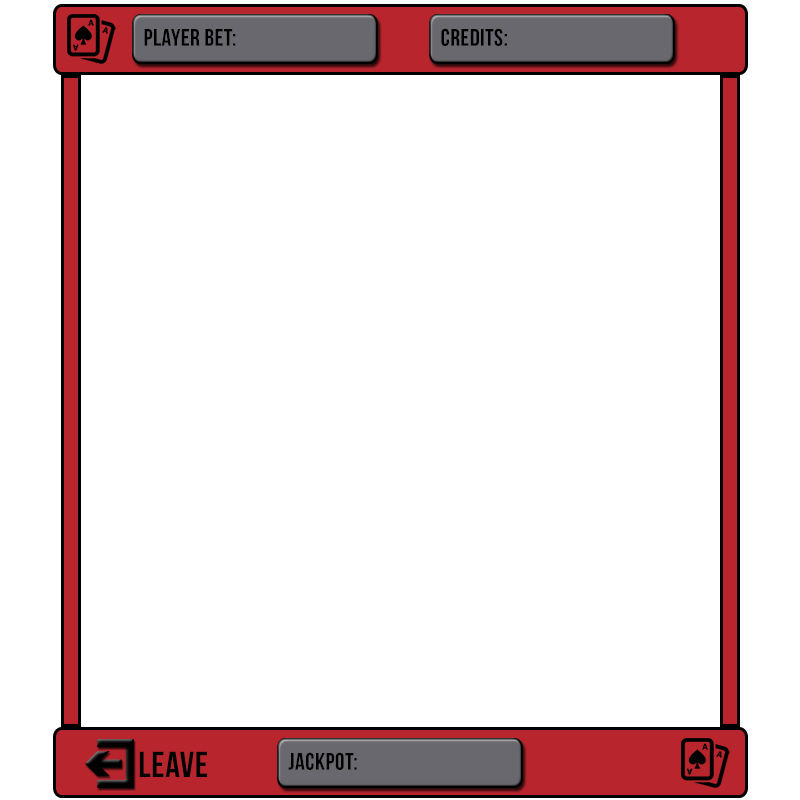
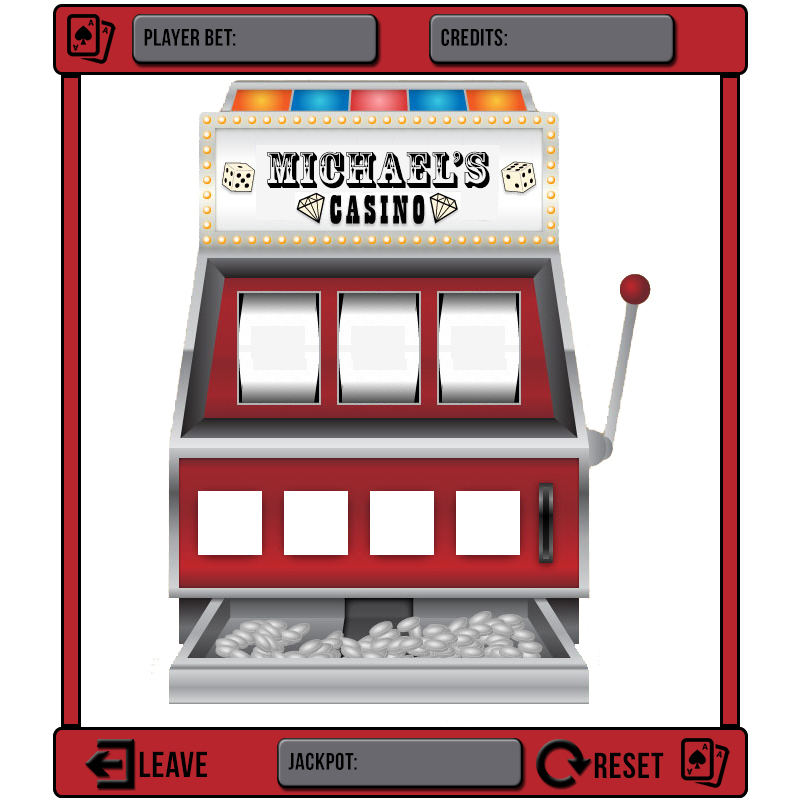
Added game reset button. Implemented it in code.

diff --git a/SlotMachine/scripts/app.js b/SlotMachine/scripts/app.js
@@ -8,7 +8,7 @@ var spinResult;
 
 var MAX_BET = 25;
 
-var canvasBackgroundImage = new createjs.Bitmap("./images/canvas_background.jpg"), slotMachineImage = new createjs.Bitmap("./images/slot_machine_template.jpg"), resetImage = new createjs.Bitmap("./images/button_reset.jpg"), resetHoverImage = new createjs.Bitmap("./images/button_reset_hover.jpg"), betOneImage = new createjs.Bitmap("./images/button_bet_one.jpg"), betOneHoverImage = new createjs.Bitmap("./images/button_bet_one_hover.jpg"), betMaxImage = new createjs.Bitmap("./images/button_bet_max.jpg"), betMaxHoverImage = new createjs.Bitmap("./images/button_bet_max_hover.jpg"), spinImage = new createjs.Bitmap("./images/button_spin.jpg"), spinHoverImage = new createjs.Bitmap("./images/button_spin_hover.jpg"), logoutHoverImage = new createjs.Bitmap("./images/logout_hover.jpg"), logoutAreaImage = new createjs.Bitmap("./images/logout_area.png");
+var canvasBackgroundImage = new createjs.Bitmap("./images/canvas_background.jpg"), slotMachineImage = new createjs.Bitmap("./images/slot_machine_template.jpg"), resetImage = new createjs.Bitmap("./images/button_reset.jpg"), resetHoverImage = new createjs.Bitmap("./images/button_reset_hover.jpg"), betOneImage = new createjs.Bitmap("./images/button_bet_one.jpg"), betOneHoverImage = new createjs.Bitmap("./images/button_bet_one_hover.jpg"), betMaxImage = new createjs.Bitmap("./images/button_bet_max.jpg"), betMaxHoverImage = new createjs.Bitmap("./images/button_bet_max_hover.jpg"), spinImage = new createjs.Bitmap("./images/button_spin.jpg"), spinHoverImage = new createjs.Bitmap("./images/button_spin_hover.jpg"), logoutHoverImage = new createjs.Bitmap("./images/logout_hover.jpg"), logoutAreaImage = new createjs.Bitmap("./images/logout_area.png"), fullResetHoverImage = new createjs.Bitmap("./images/reset_hover.jpg"), fullResetAreaImage = new createjs.Bitmap("./images/reset_area.png");
 
 var blank = 0;
 var blankImage = new Image();
@@ -61,6 +61,10 @@ function init() {
     logoutAreaImage.x = 83;
     logoutAreaImage.y = 736;
     stage.addChild(logoutAreaImage);
+
+    fullResetAreaImage.x = 535;
+    fullResetAreaImage.y = 738;
+    stage.addChild(fullResetAreaImage);
 
     slotMachineImage.x = canvasBackgroundImage.x + 150;
     slotMachineImage.y = canvasBackgroundImage.y + 80;
@@ -209,6 +213,26 @@ function init() {
 
         if (confirm("Progress will be lost, continue?"))
             window.close();
+    });
+
+    fullResetAreaImage.addEventListener("mouseover", function () {
+        stage.addChild(fullResetHoverImage);
+        fullResetHoverImage.x = fullResetAreaImage.x;
+        fullResetHoverImage.y = fullResetAreaImage.y;
+        stage.update();
+    });
+
+    fullResetAreaImage.addEventListener("rollout", function () {
+        stage.removeChild(fullResetHoverImage);
+        stage.update();
+    });
+
+    fullResetAreaImage.addEventListener("click", function () {
+        selectSound.play();
+
+        reset();
+
+        stage.update();
     });
 
     spinImage.addEventListener("mouseover", function () {
@@ -399,7 +423,7 @@ function resetFruitCount() {
 function reset() {
     playerBet = 0;
     playerCash = 50;
-    jackpot = 5000;
+    jackpot = 100;
 
     winNumber = 0;
     lossNumber = 0;

diff --git a/SlotMachine/scripts/app.ts b/SlotMachine/scripts/app.ts
@@ -19,7 +19,9 @@ var canvasBackgroundImage = new createjs.Bitmap("./images/canvas_background.jpg"
     spinImage = new createjs.Bitmap("./images/button_spin.jpg"),
     spinHoverImage = new createjs.Bitmap("./images/button_spin_hover.jpg"),
     logoutHoverImage = new createjs.Bitmap("./images/logout_hover.jpg"),
-    logoutAreaImage = new createjs.Bitmap("./images/logout_area.png");
+    logoutAreaImage = new createjs.Bitmap("./images/logout_area.png"),
+    fullResetHoverImage = new createjs.Bitmap("./images/reset_hover.jpg"),
+    fullResetAreaImage = new createjs.Bitmap("./images/reset_area.png");
 
 
 var blank = 0;
@@ -78,6 +80,10 @@ function init() {
     logoutAreaImage.x = 83;
     logoutAreaImage.y = 736;
     stage.addChild(logoutAreaImage);
+
+    fullResetAreaImage.x = 535;
+    fullResetAreaImage.y = 738;
+    stage.addChild(fullResetAreaImage);
 
     slotMachineImage.x = canvasBackgroundImage.x + 150;
     slotMachineImage.y = canvasBackgroundImage.y + 80;
@@ -145,7 +151,6 @@ function init() {
         updateText();
         stage.update();
     })
-
 
     betOneImage.addEventListener("mouseover", function ()
     {
@@ -244,6 +249,26 @@ function init() {
 
         if (confirm("Progress will be lost, continue?"))
             window.close();
+    })
+
+    fullResetAreaImage.addEventListener("mouseover", function () {
+        stage.addChild(fullResetHoverImage);
+        fullResetHoverImage.x = fullResetAreaImage.x;
+        fullResetHoverImage.y = fullResetAreaImage.y;
+        stage.update();
+    });
+
+    fullResetAreaImage.addEventListener("rollout", function () {
+        stage.removeChild(fullResetHoverImage);
+        stage.update();
+    });
+
+    fullResetAreaImage.addEventListener("click", function () {
+        selectSound.play();
+
+        reset();
+
+        stage.update();
     })
 
     spinImage.addEventListener("mouseover", function ()
@@ -454,7 +479,7 @@ function reset()
 {
     playerBet = 0;
     playerCash = 50;
-    jackpot = 5000;
+    jackpot = 100;
 
     winNumber = 0;
     lossNumber = 0;
